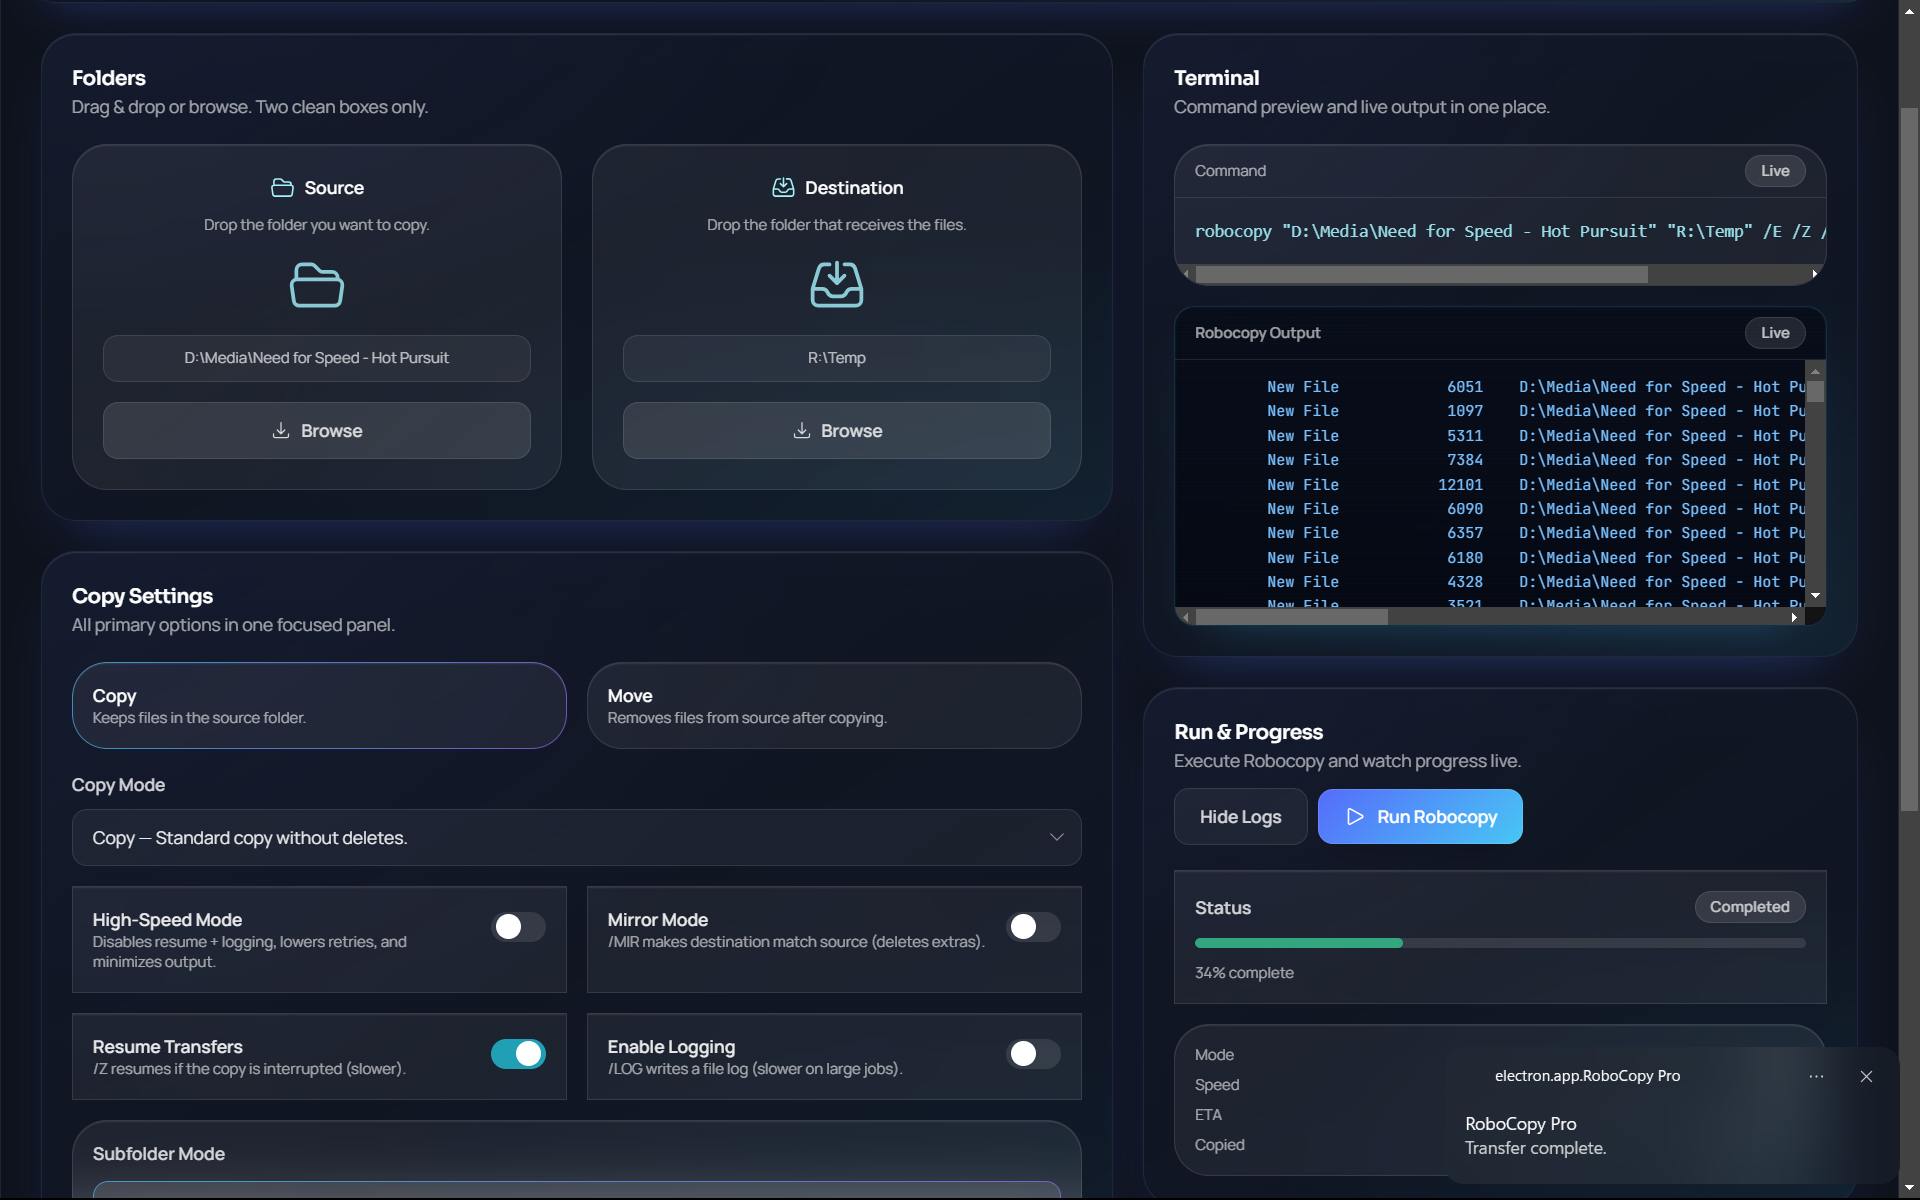
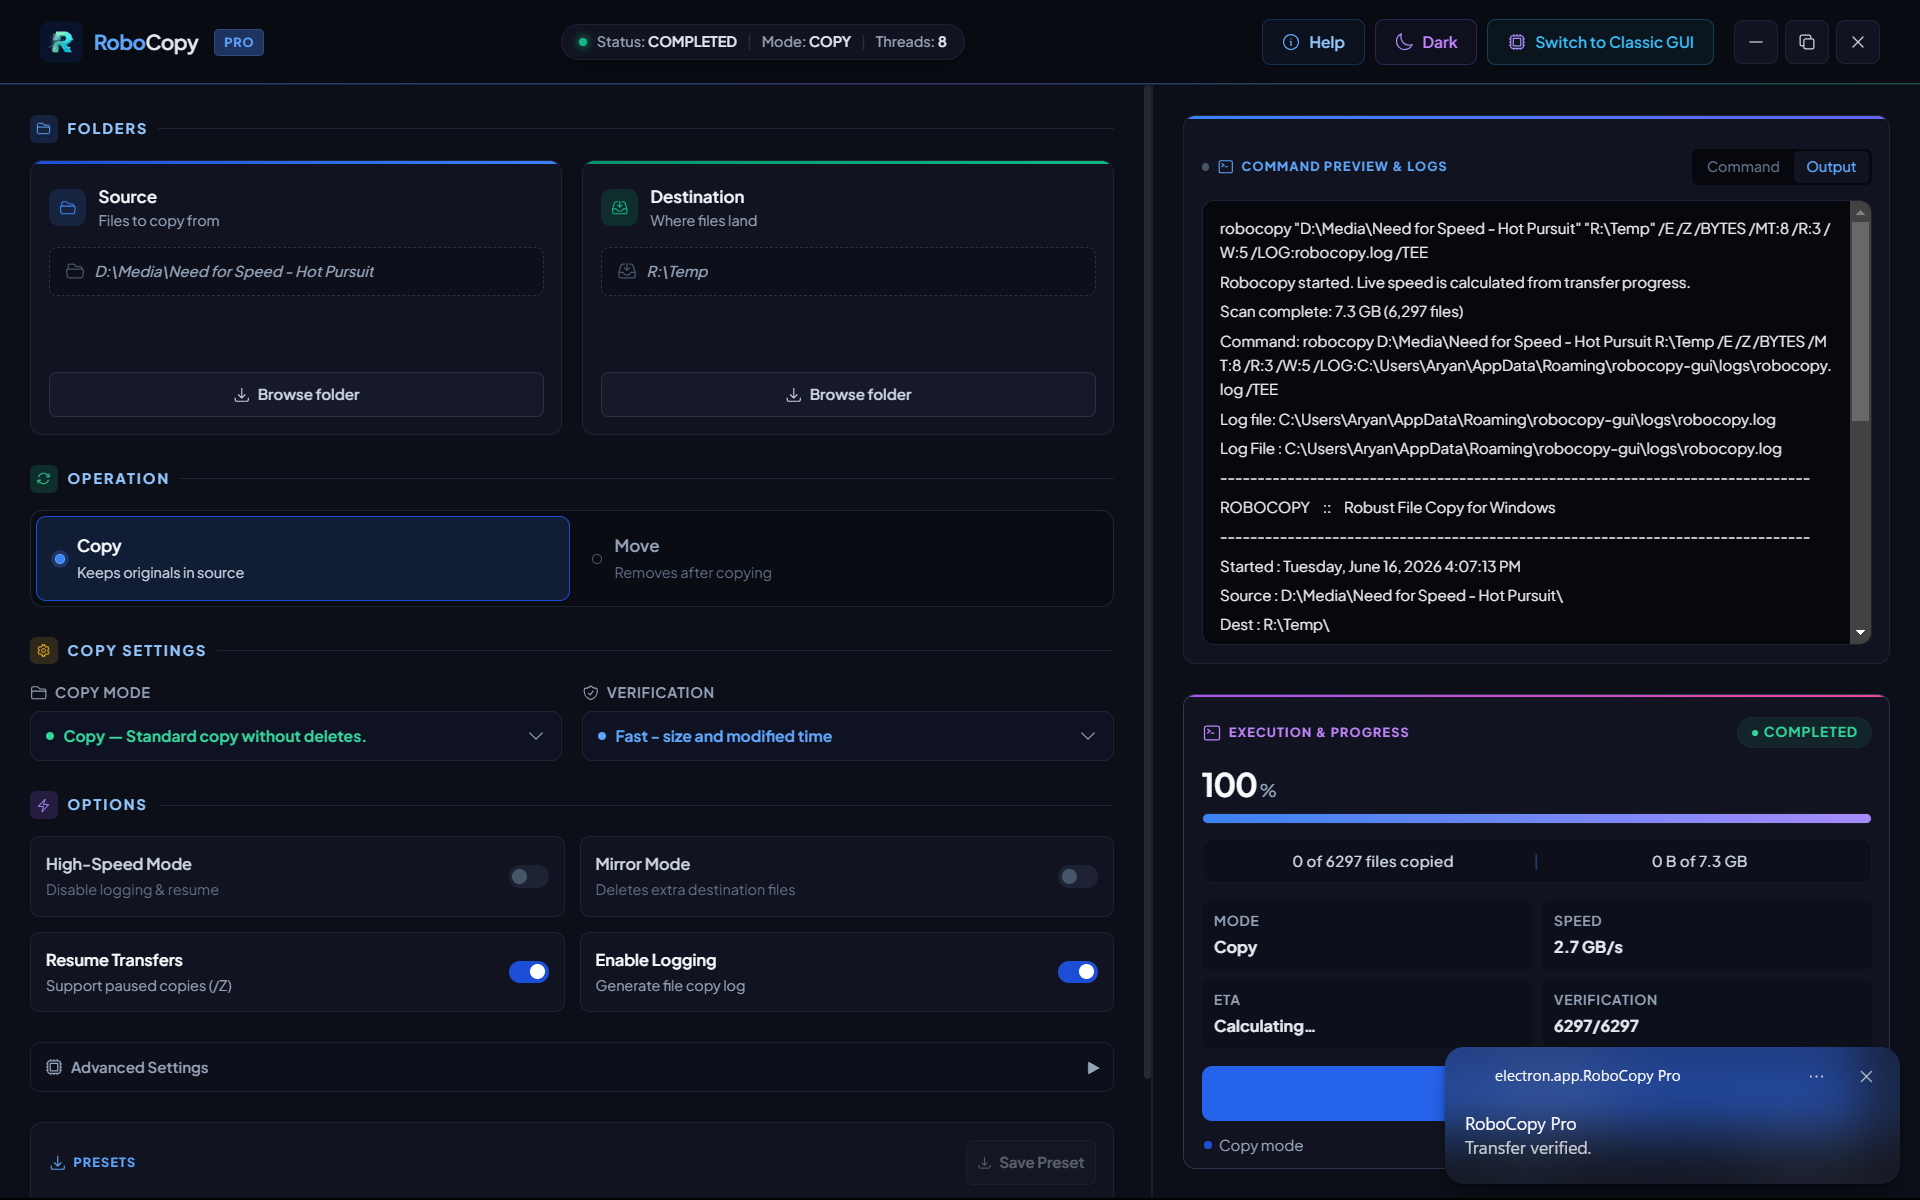
Updated Readme And Added Demo Video
Updated readme with new update screenshot and added demo video walkthrough

diff --git a/README.md b/README.md
@@ -15,7 +15,7 @@
 
 <p align="center">
   <a href="https://github.com/ArYaN-X404/RoboCopy_GUI/releases/latest">
-  <img src="https://img.shields.io/badge/Download-v1.0.0-blue?style=for-the-badge&logo=windows"/>
+  <img src="https://img.shields.io/badge/Download-v2.0.0-blue?style=for-the-badge&logo=windows"/>
 </a>
   <a href="#"><img src="https://img.shields.io/github/stars/ArYaN-X404/RoboCopy_GUI?style=for-the-badge"/></a>
   <a href="#"><img src="https://img.shields.io/github/issues/ArYaN-X404/RoboCopy_GUI?style=for-the-badge"/></a>
@@ -35,18 +35,28 @@
 
 <div align="center">
 
-### 🧩 Setup Interface
-<img src="docs/screenshot-main.png" width="800"/>
-
----
-
-### ⚡ Running Transfer (Live)
-<img src="docs/screenshot-running.png" width="800"/>
-
----
-
-### ✅ Completed Transfer
-<img src="docs/screenshot-completed.png" width="800"/>
+<table>
+  <tr>
+    <td align="center">
+      <b>🧩 Setup Interface</b><br>
+      <img src="docs/screenshot-main.png" width="400"/>
+    </td>
+    <td align="center">
+      <b>⚡ Running Transfer (Live)</b><br>
+      <img src="docs/screenshot-running.png" width="400"/>
+    </td>
+  </tr>
+  <tr>
+    <td align="center">
+      <b>✅ Completed Transfer</b><br>
+      <img src="docs/screenshot-completed.png" width="400"/>
+    </td>
+    <td align="center">
+      <b>🖥️ Classic UI / Old GUI</b><br>
+      <img src="docs/screenshot-classic.png" width="400"/>
+    </td>
+  </tr>
+</table>
 
 </div>
 